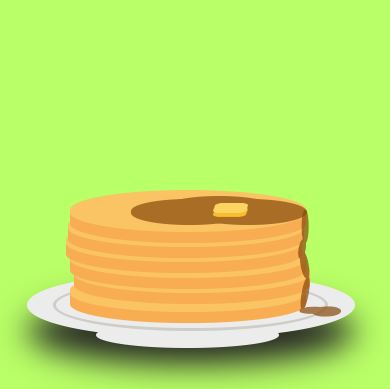
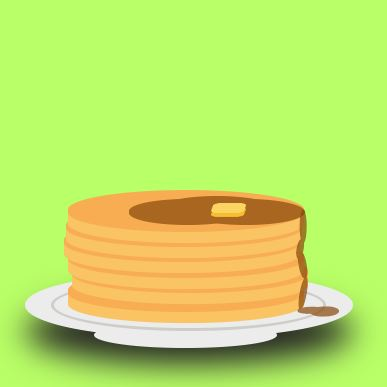
Pancake v2 and removed dashed border

diff --git a/pancakes.css b/pancakes.css
@@ -10,8 +10,8 @@
 
   --c-plate: #ECECEC;
   --c-plate-shadow: #CFCDC7;
-  --c-pancake: #FAC465;
-  --c-pancake-shadow: #F8AD53;
+  --c-pancake: #F8AD53;
+  --c-pancake-side: #FAC465;
   --c-syrup: #87470A;
   --c-butter: #FCD461;
   --c-butter-shadow: #F6BD2F;
@@ -27,7 +27,7 @@ body {
   display: block;
   height: 300px;
   width: 300px;
-  border: 1px dashed #000;
+  /*border: 1px dashed #000;*/
 }
 
 .plate {
@@ -69,7 +69,7 @@ body {
 
 .pancake {
   background: var(--c-pancake);
-  box-shadow: 0px 10px var(--c-pancake-shadow);
+  box-shadow: 0px 10px var(--c-pancake-side);
   height: 30px;
   width: 180px;
   border-radius: 50%;
@@ -88,7 +88,7 @@ body {
   top: 56%;
   height: 10px;
   width: inherit;
-  background: var(--c-pancake-shadow);
+  background: var(--c-pancake-side);
   border-radius: 10%;
 }
 
@@ -115,7 +115,7 @@ body {
   top: 56%;
   height: 10px;
   width: inherit;
-  background: var(--c-pancake-shadow);
+  background: var(--c-pancake-side);
   border-radius: 10%;
 }
 
@@ -142,7 +142,7 @@ body {
   top: 56%;
   height: 10px;
   width: inherit;
-  background: var(--c-pancake-shadow);
+  background: var(--c-pancake-side);
   border-radius: 10%;
 }
 
@@ -169,7 +169,7 @@ body {
   top: 56%;
   height: 10px;
   width: inherit;
-  background: var(--c-pancake-shadow);
+  background: var(--c-pancake-side);
   border-radius: 10%;
 }
 
@@ -196,7 +196,7 @@ body {
   top: 56%;
   height: 10px;
   width: inherit;
-  background: var(--c-pancake-shadow);
+  background: var(--c-pancake-side);
   border-radius: 10%;
 }
 
@@ -223,7 +223,7 @@ body {
   top: 56%;
   height: 10px;
   width: inherit;
-  background: var(--c-pancake-shadow);
+  background: var(--c-pancake-side);
   border-radius: 10%;
 }
 
